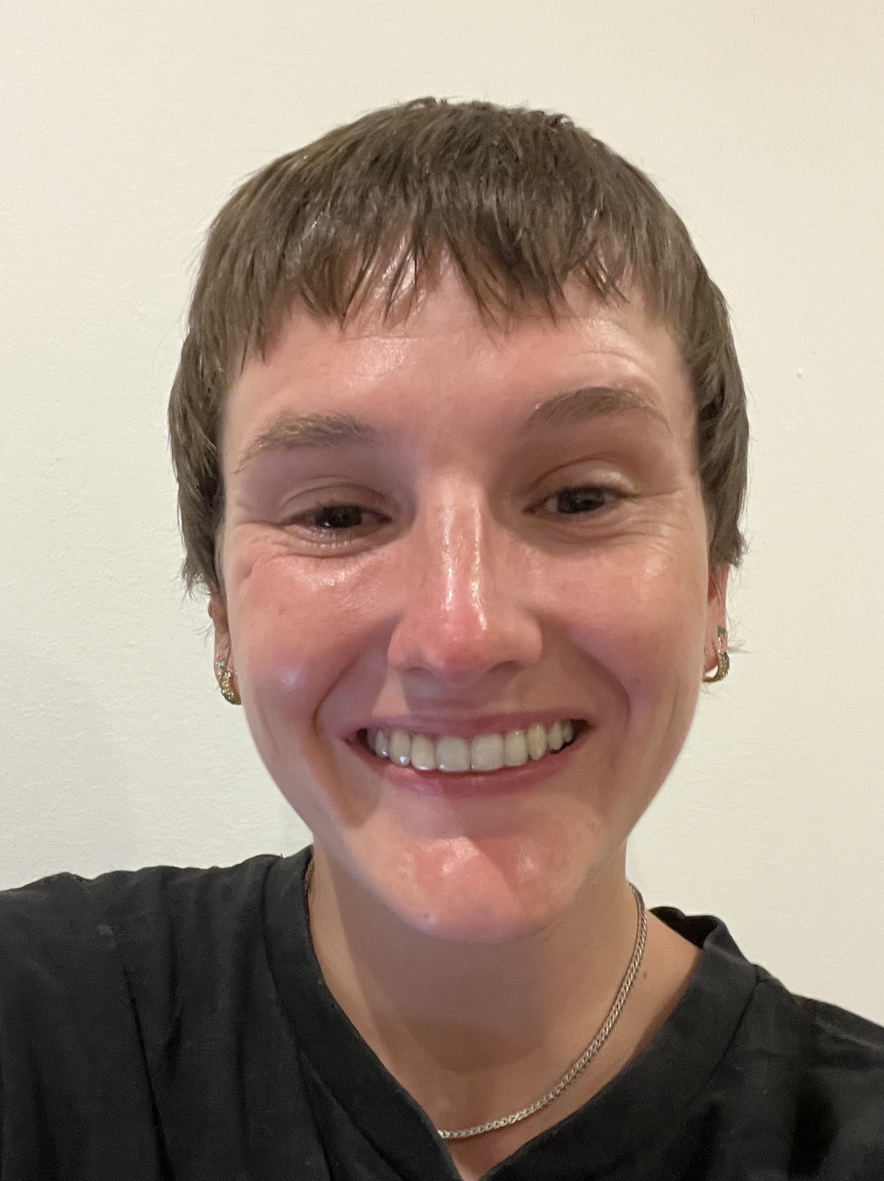
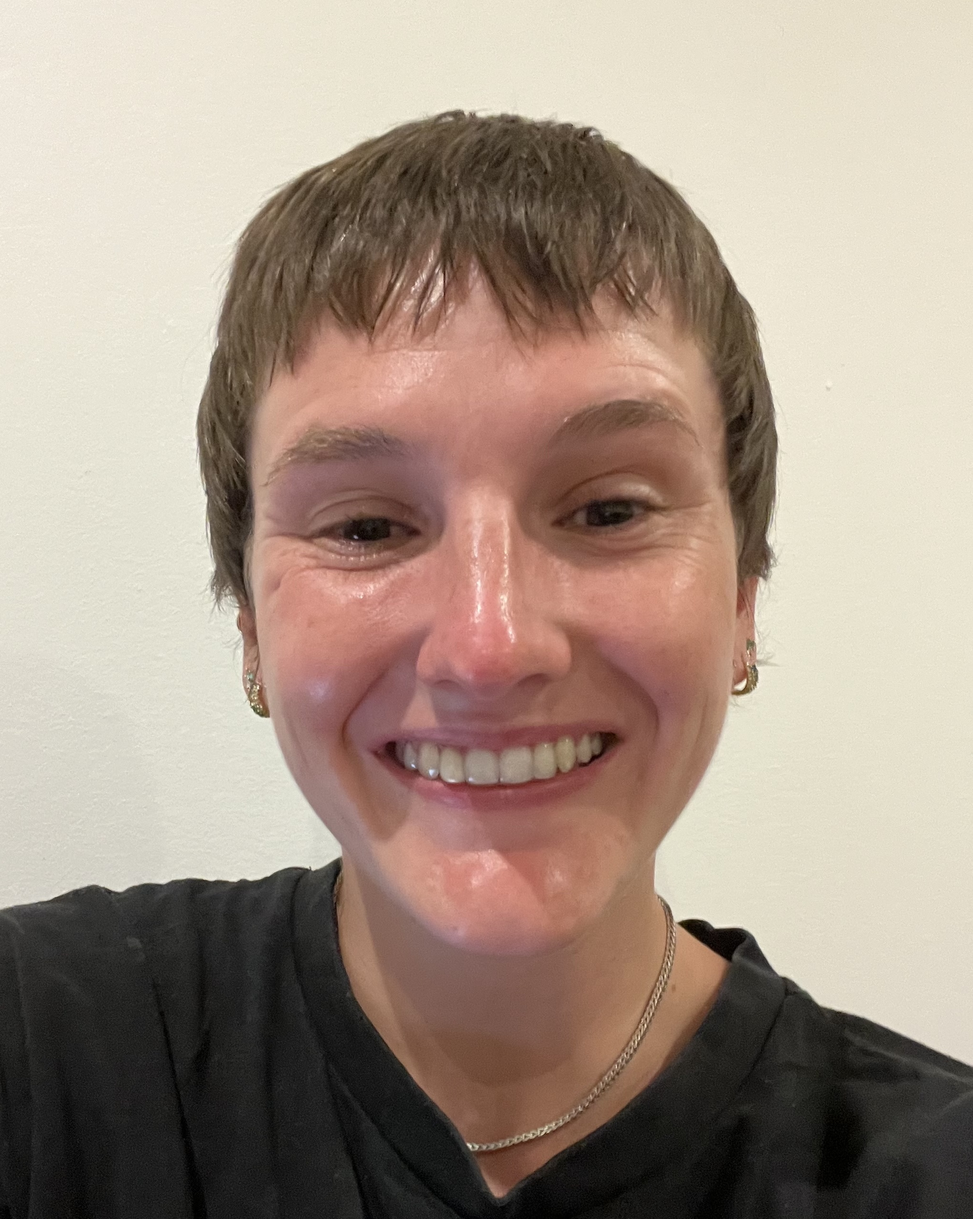
add keynote speaker Elli

diff --git a/index.html b/index.html
@@ -142,7 +142,7 @@ Besides mathematical and scientific discovery, the success of neural networks is
   <div class="invited_speaker">
     <a href="https://inspirehep.net/authors/2035525"><img src="/assets/images/elli.jpg" alt="Elli UG-Heyes"></a>
     <p>
-      <a href="https://inspirehep.net/authors/2035525">Elli UG-Heyes</a>Imperial College London 
+      <a href="https://inspirehep.net/authors/2035525">Elli UG-Heyes</a><br>Imperial College London 
     </p>
   </div>
 </div>
